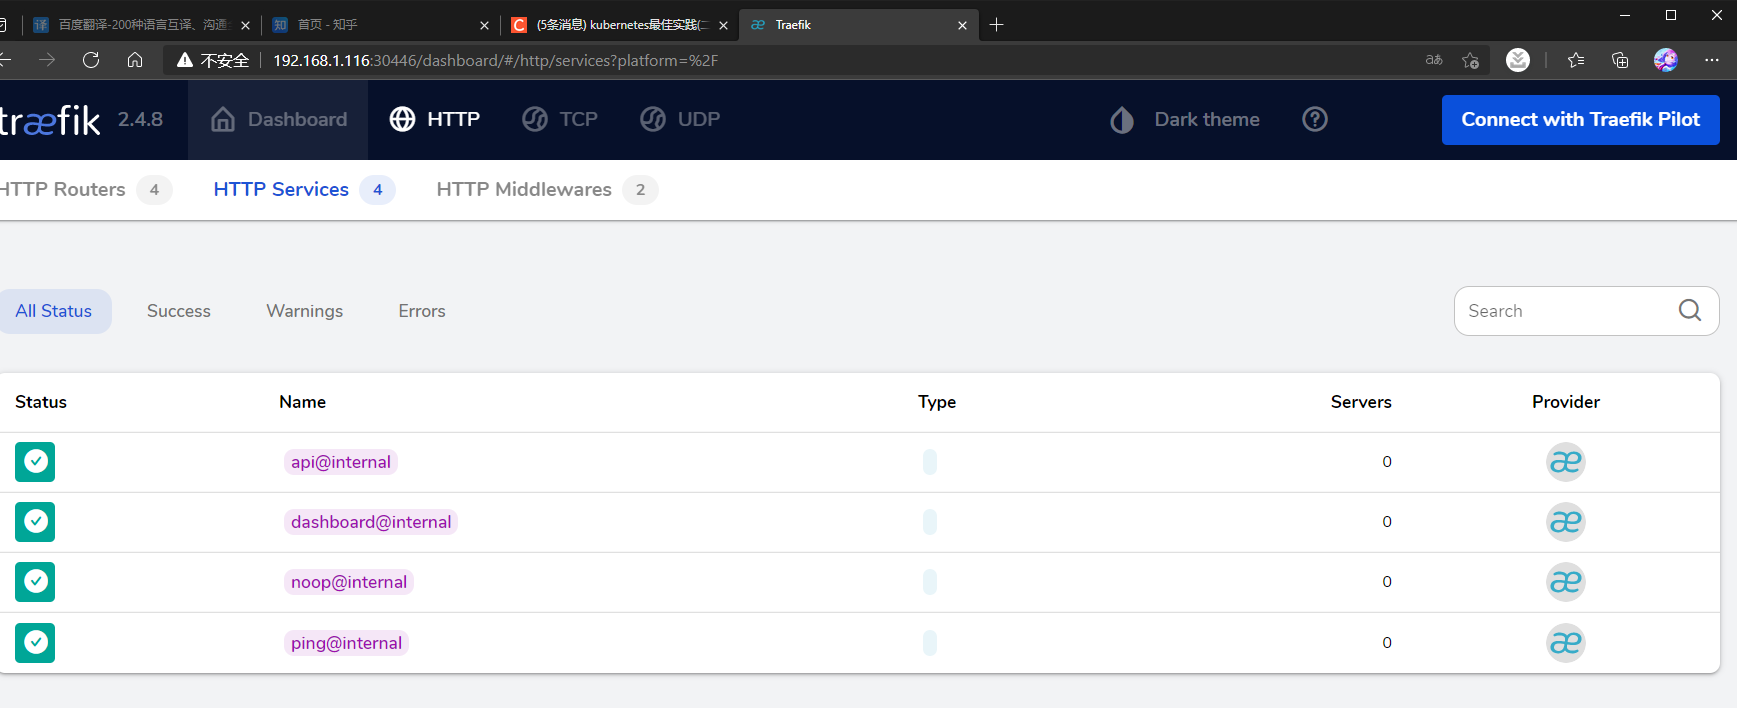
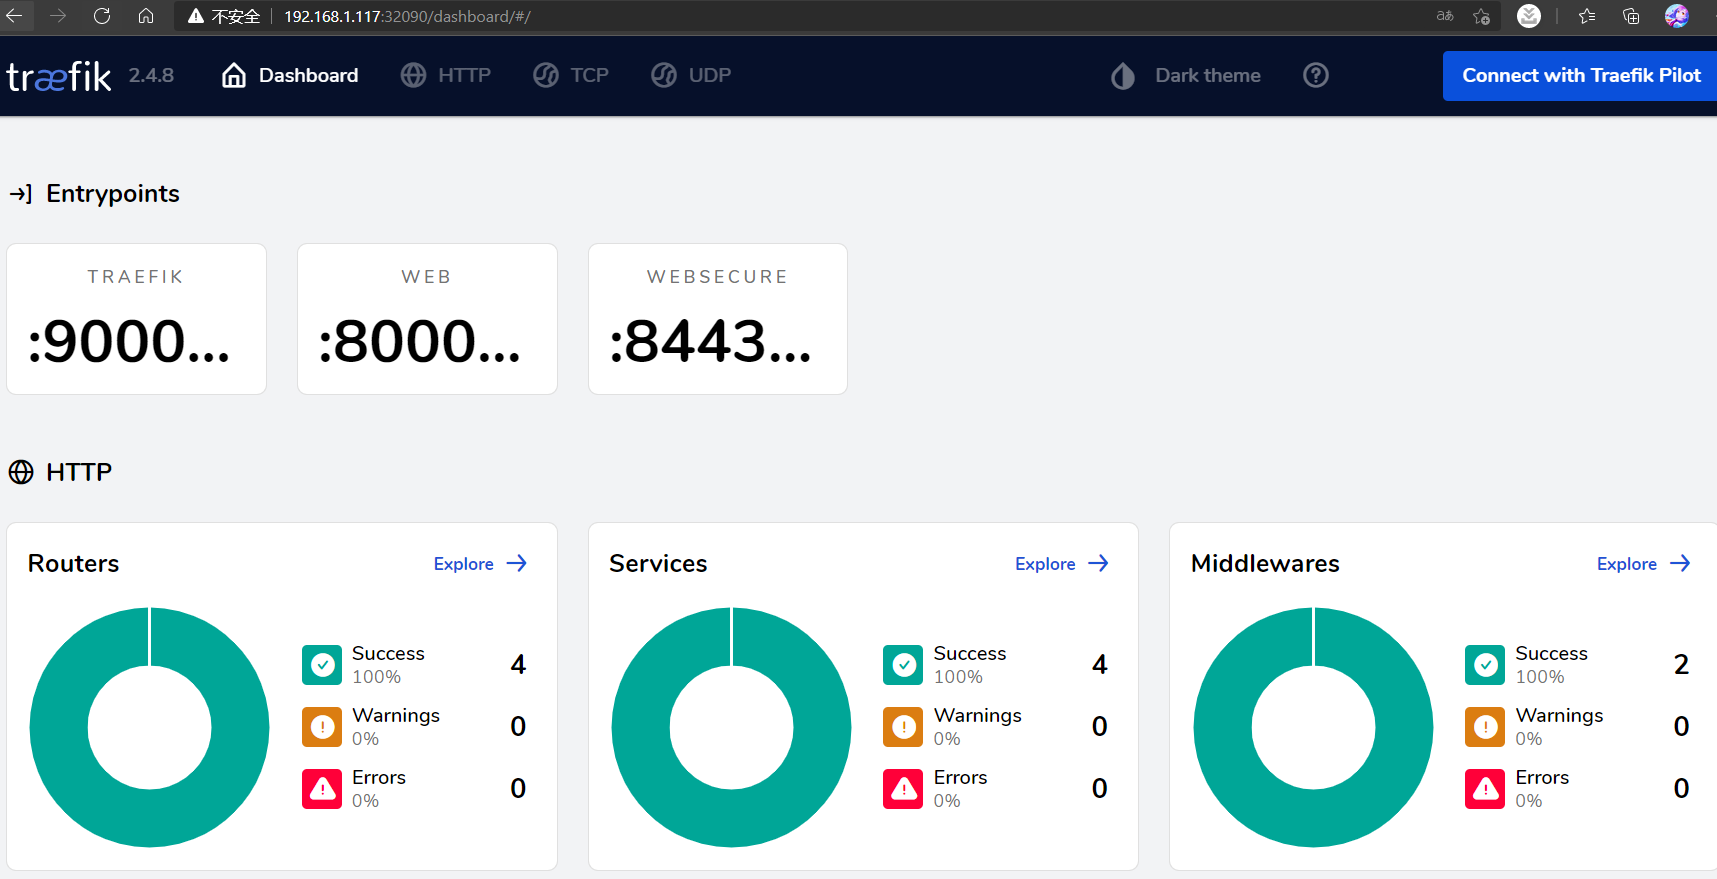
traefik ingressRoute okay

diff --git a/Kubernetes/Lastest/admin/ingress/README.md b/Kubernetes/Lastest/admin/ingress/README.md
@@ -22,7 +22,9 @@ Traefik是一款开源的反向代理与负载均衡工具(Ingress controller). 
 ![](picture/traefik-architecture.png). [中文文档](https://www.qikqiak.com/traefik-book/)
 
 ### helm 部署
-- 不暴露`dashboard`服务部署方式
+
+#### 部署方法
+- 方式1: 不暴露`dashboard`服务部署方式
     ```bash
     helm repo add traefik https://helm.traefik.io/traefik
     helm repo update
@@ -37,7 +39,7 @@ Traefik是一款开源的反向代理与负载均衡工具(Ingress controller). 
     ```bash
     kubectl port-forward $(kubectl get pods --selector "app.kubernetes.io/name=traefik" --output=name) 9000:9000
     ```
-- 根据[values.yaml](values.yaml)自定义部署(打上`-----------`是我修改的地方), 参考[官方 values.yaml](https://github.com/traefik/traefik-helm-chart/blob/master/traefik/values.yaml)
+- 方式2: 根据[values.yaml](values.yaml)自定义部署(打上`-----------`是我修改的地方), 参考[官方 values.yaml](https://github.com/traefik/traefik-helm-chart/blob/master/traefik/values.yaml)
     ```bash
     helm repo add traefik https://helm.traefik.io/traefik
     helm repo update
@@ -45,8 +47,18 @@ Traefik是一款开源的反向代理与负载均衡工具(Ingress controller). 
     ```
   - 访问: 通过命令`kubectl describe pod traefik`查找部署所在的节点
   ![](picture/pod%20find.png)
-    - 通过`http://192.168.1.116:30446`即可访问traefik的dashboard
+    - 通过`http://192.168.1.117:32090/dashboard/`(values.yaml内使用了nodePort暴露端口)即可访问traefik的dashboard
     ![](picture/dashboard%20http.png)
+
+#### 添加ingress映射
+- 使用ingress映射至域名访问, **注意: 因为我是在局域网内的虚拟域名, 因此需要更改windows下`hosts`文件(C:\Windows\System32\drivers\etc)**
+    ![](picture/windows-host.png)
+- 使用[traefik-dashboard-ingress-route.yaml](traefik-dashboard-ingress-route.yaml)添加ingress
+    ```bash
+    kubectl apply -f traefik-dashboard-ingress-route.yaml
+    ```
+  - 即可通过`http://k8s.swh.com:32090/dashboard/`进入traefik的dashboard界面
+  ![](picture/traefik-ingress.png)
     
 ### 设置tls访问
 - 使用[cert-manager](../cert-manager/README.md)创建证书, [traefik-ca-use.yaml](traefik-ca-use.yaml)
